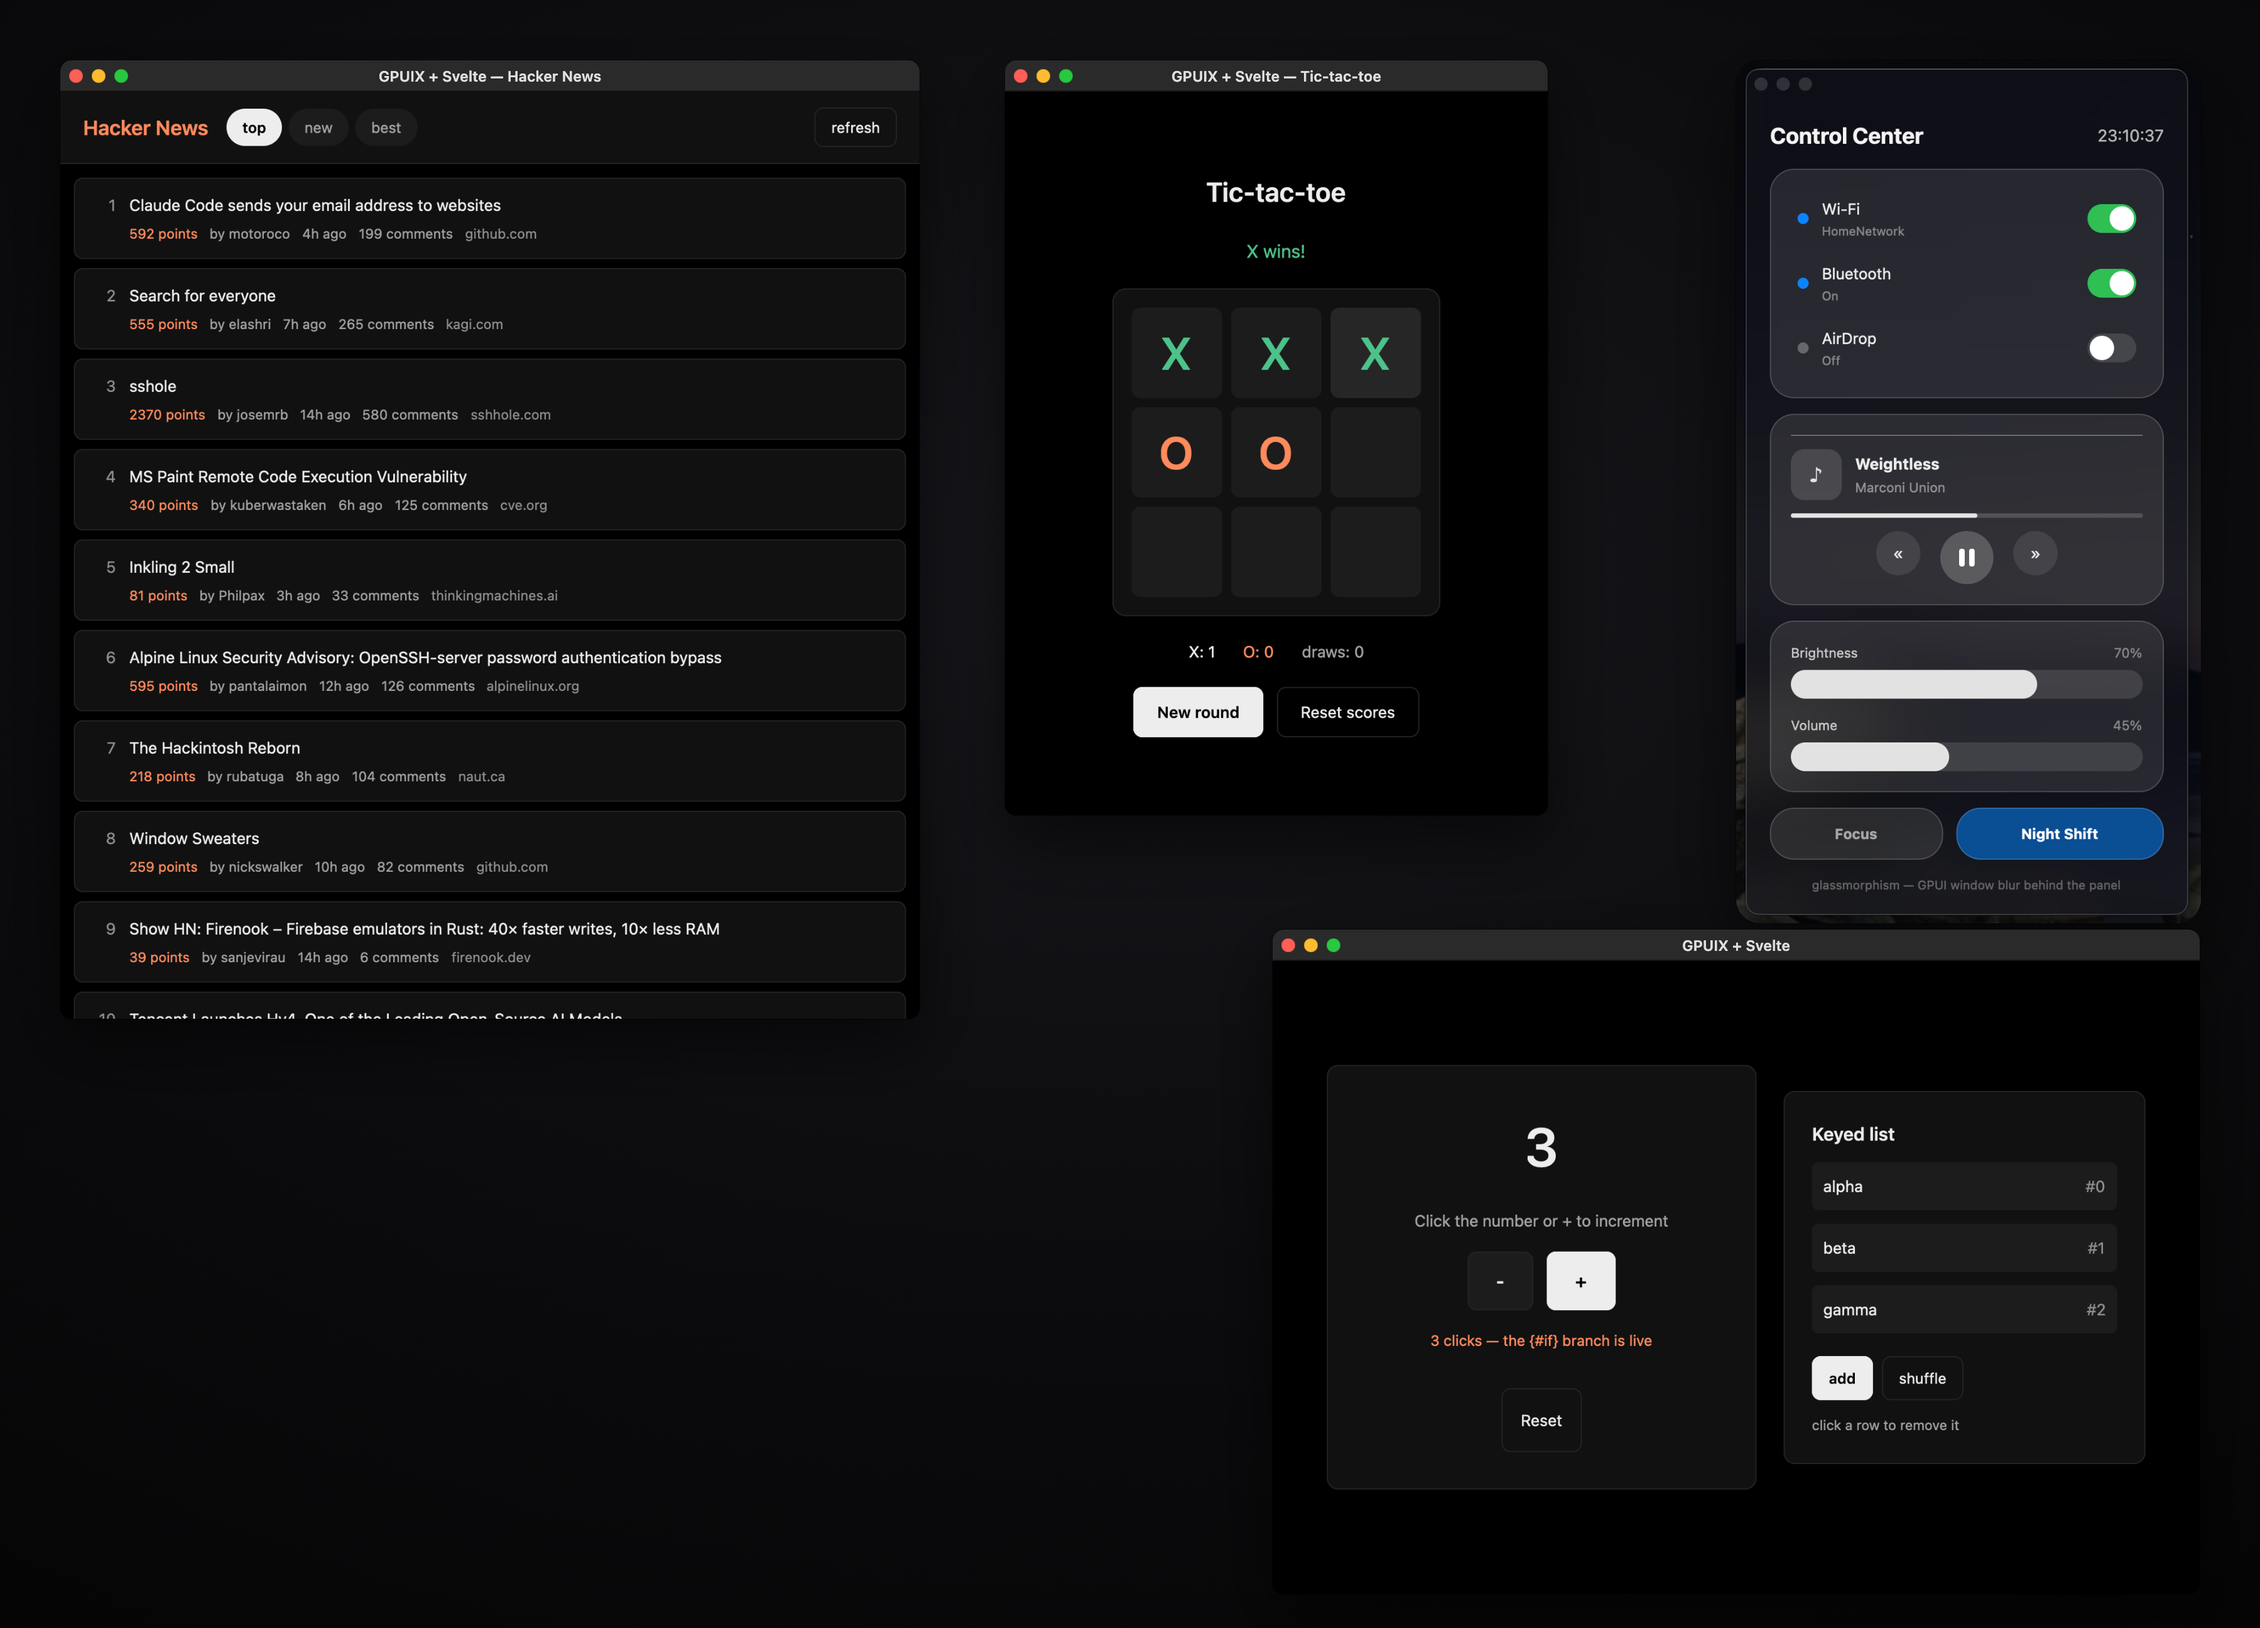
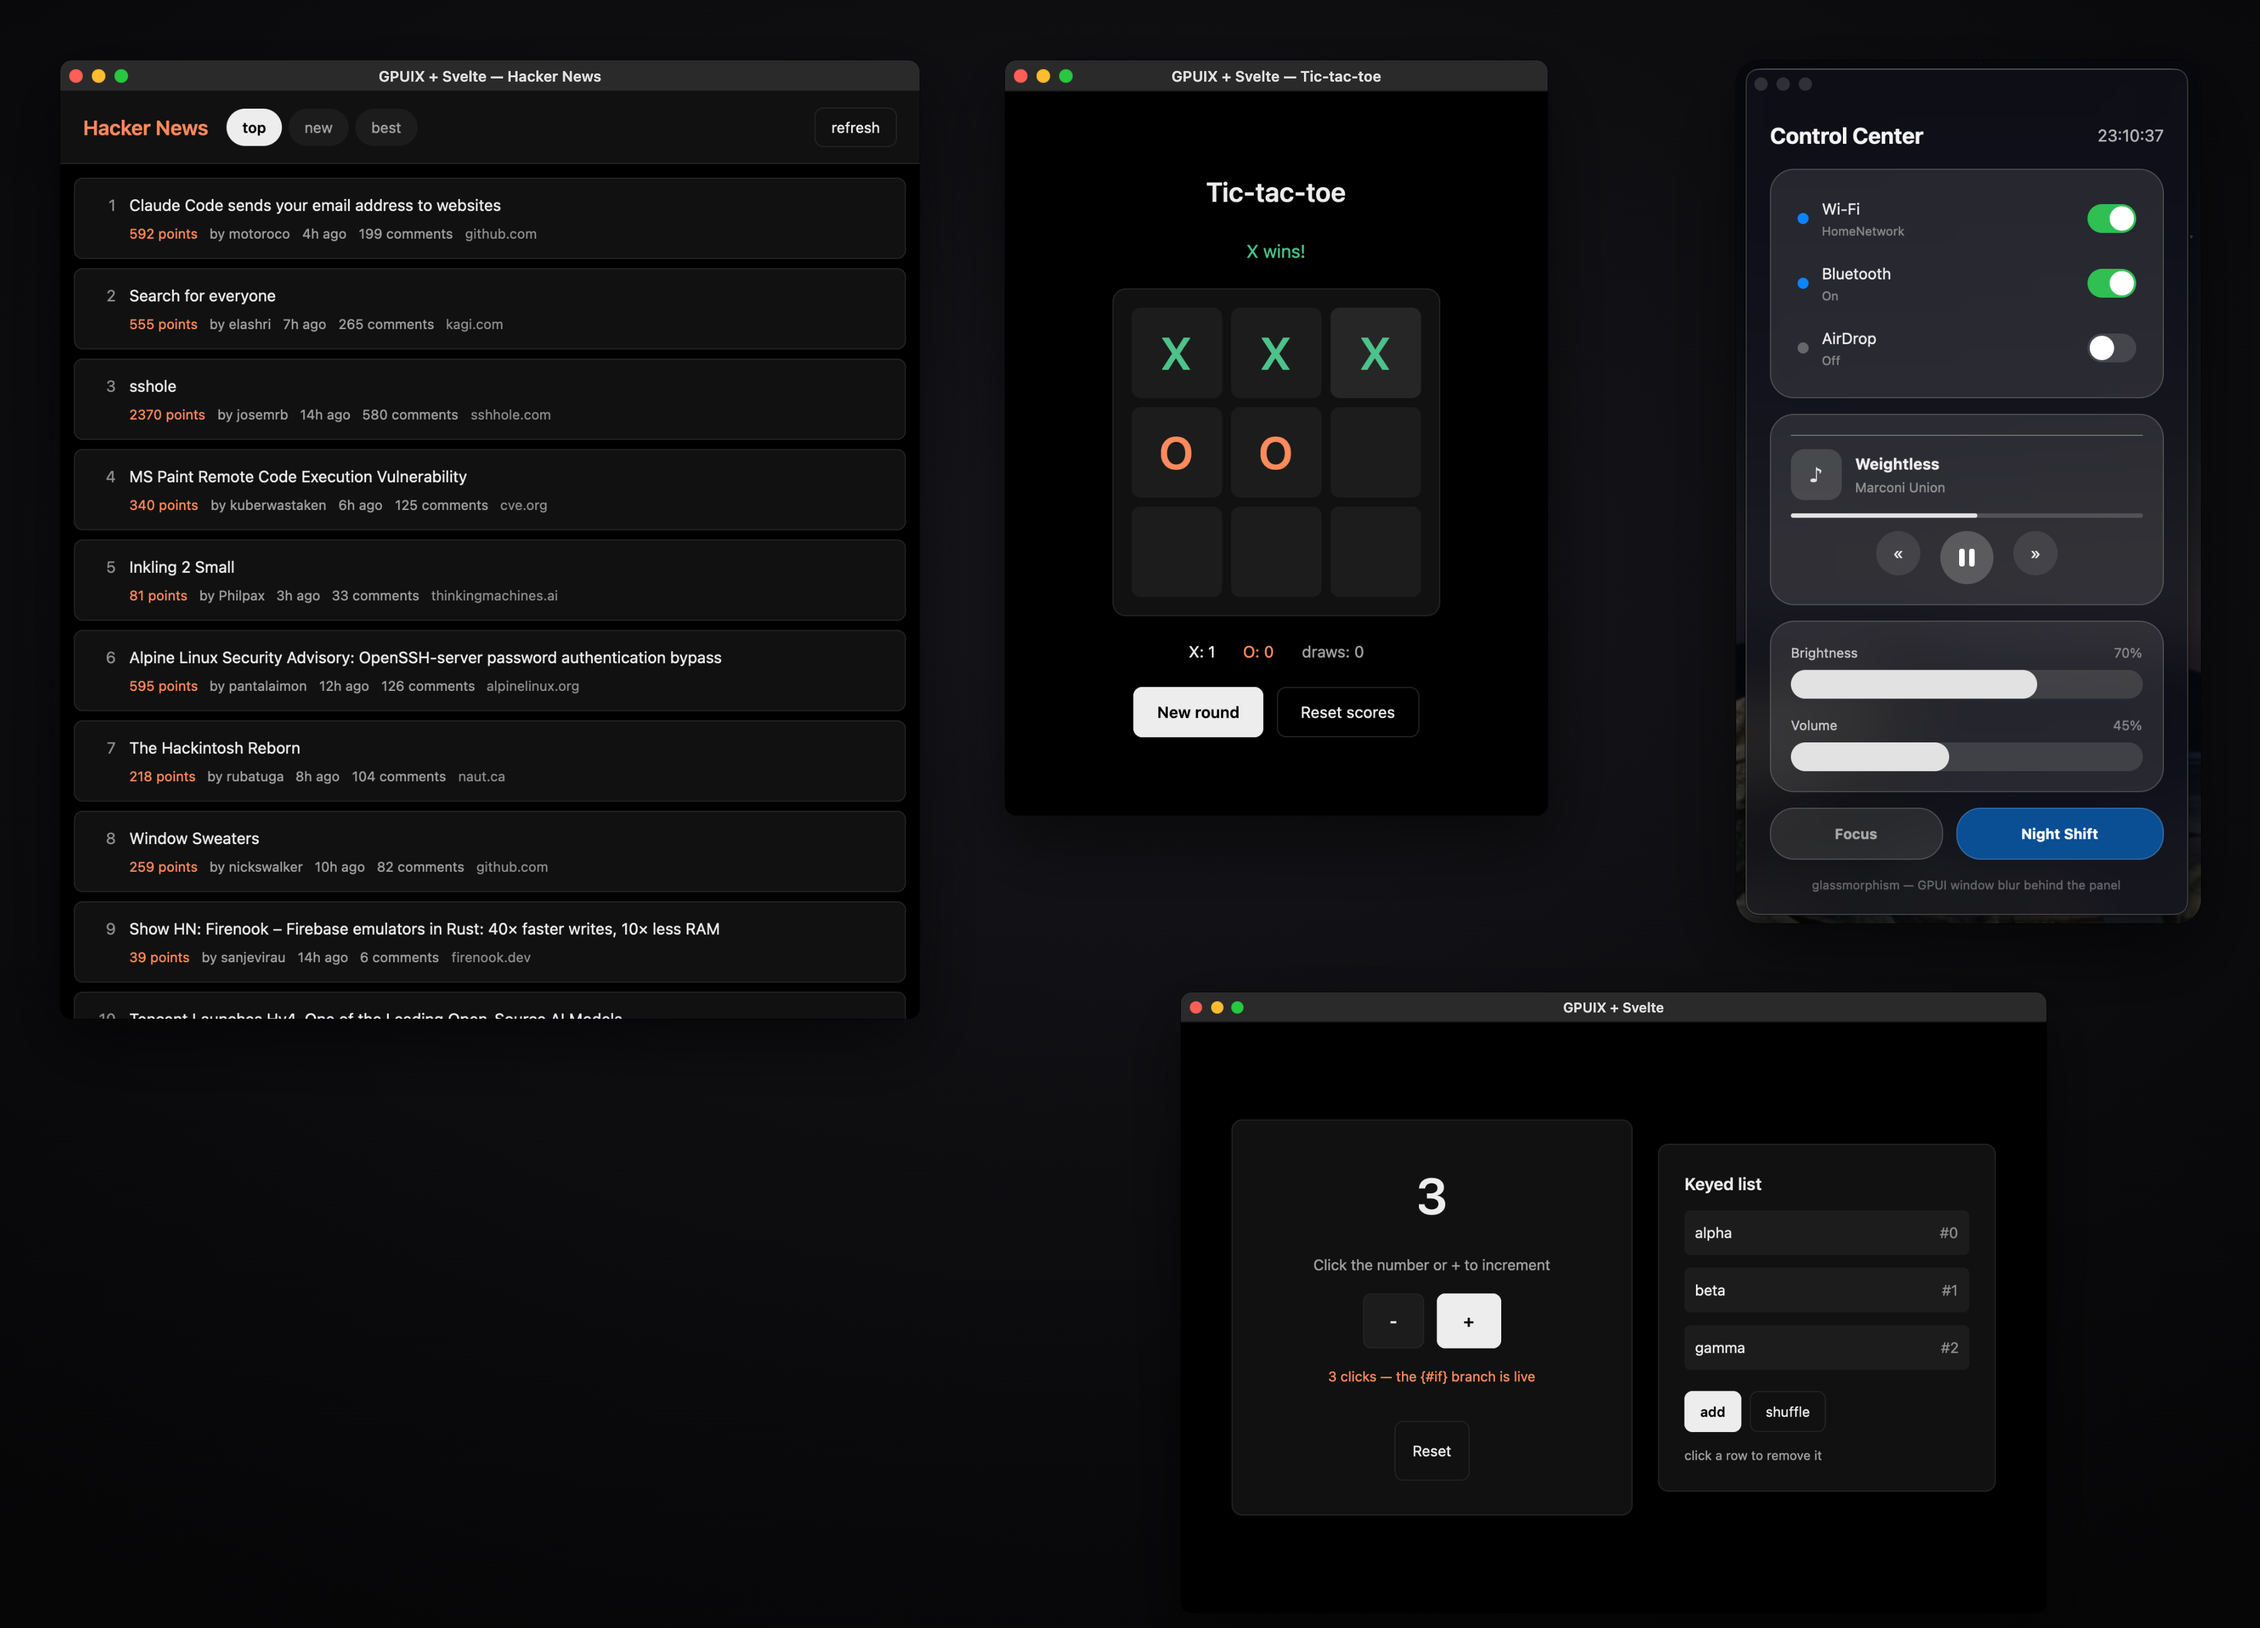
docs: give the README composite's counter window room below the glass panel

diff --git a/scripts/shots.ts b/scripts/shots.ts
@@ -310,7 +310,8 @@ async function capture_demos() {
 		window_html({ shot: 'hn', title: SHOT_TITLES.hn, left: 48, top: 48, zoom: 0.9 }),
 		window_html({ shot: 'tictactoe', title: SHOT_TITLES.tictactoe, left: 800, top: 48, zoom: 0.9 }),
 		`<div class="at" style="left:1382px;top:48px"><div class="win glass" style="width:370px"><img src="${glass}" alt=""></div></div>`,
-		window_html({ shot: 'counter', title: SHOT_TITLES.counter, left: 1013, top: 740, zoom: 0.9 })
+		// Below the glass panel with clear air between them, and a little smaller so it stays inside the canvas.
+		window_html({ shot: 'counter', title: SHOT_TITLES.counter, left: 940, top: 790, zoom: 0.84 })
 	];
 	writeFileSync(
 		file,
